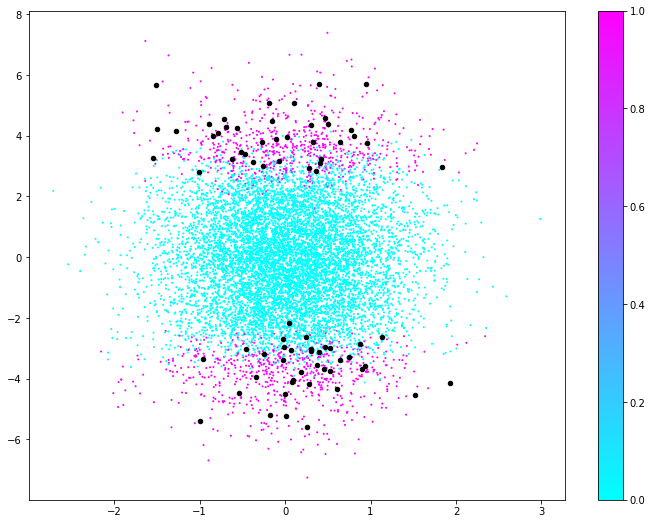
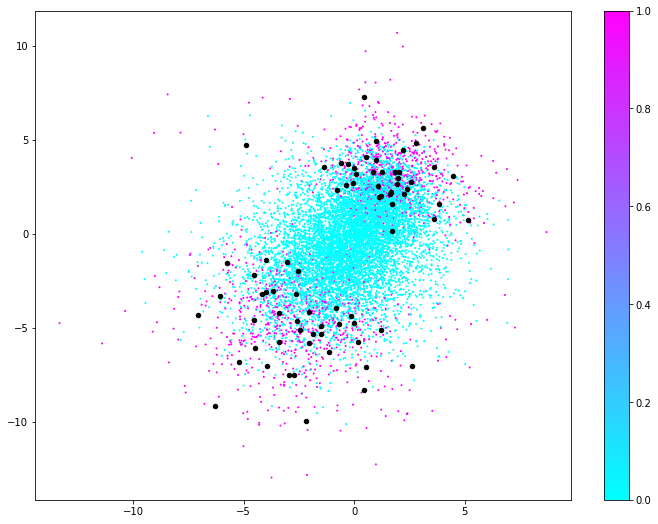
threshold and new IS procedure

diff --git a/src/VAE_class.py b/src/VAE_class.py
@@ -14,6 +14,7 @@ from tensorflow import keras
 from tensorflow.keras import layers
 import tensorflow_probability as tfp
 tfd = tfp.distributions
+import time
 
 #%% Sampling procedure
 
@@ -53,10 +54,11 @@ class VAE(keras.Model):
         self.input_dim = input_dim
         self.latent_dim = latent_dim
         self.K = K
-        self.prior = ot.Normal(latent_dim)
         self.encoder = create_encoder(encoder,input_dim,latent_dim)
         self.decoder = create_decoder(decoder,input_dim,latent_dim)
         self.pseudo_inputs_layer = vp_layer
+        self.prior = ot.Normal(latent_dim)
+        self.distrX = ot.Normal(input_dim)
         self.total_loss_tracker = keras.metrics.Mean(name="total_loss")
         self.reconstruction_loss_tracker = keras.metrics.Mean(name="reconstruction_loss")
         self.kl_loss_tracker = keras.metrics.Mean(name="kl_loss")
@@ -82,24 +84,7 @@ class VAE(keras.Model):
             d_k = tfp.distributions.MultivariateNormalDiag(loc=mu,scale_diag=tf.sqrt(sigma))
             components.append(d_k)
         return tfd.Mixture(cat = cat,components = components)
-        
     
-    def set_ot_prior(self):
-        pseudo_inputs = self.get_pseudo_inputs()
-
-        z_mean, z_log_var, z = self.encoder(pseudo_inputs)
-        z_mean = np.array(z_mean).astype("float64")
-        z_var = np.exp(np.array(z_log_var).astype("float64"))
-                        
-        distrs = []
-        for i in range(self.K):
-            d  = ot.Normal(ot.Point(z_mean[i]),ot.CovarianceMatrix(np.diag(z_var[i])))
-            distrs.append(d)
-        prior = ot.Mixture(distrs)
-        self.prior = prior
-    
-    def get_pseudo_inputs(self):
-        return self.pseudo_inputs_layer(tf.eye(self.K))
 
     def train_step(self, data):
         X,y = data
@@ -149,29 +134,75 @@ class VAE(keras.Model):
             "kl_loss": self.kl_loss_tracker.result()
         }
     
+    def get_pseudo_inputs(self):
+        return self.pseudo_inputs_layer(tf.eye(self.K))
+    
+    def set_ot_prior(self):
+        pseudo_inputs = self.get_pseudo_inputs()
+
+        z_mean, z_log_var, z = self.encoder(pseudo_inputs)
+        z_mean = np.array(z_mean).astype("float64")
+        z_var = np.exp(np.array(z_log_var).astype("float64"))
+                        
+        distrs = []
+        for i in range(self.K):
+            d  = ot.Normal(ot.Point(z_mean[i]),ot.CovarianceMatrix(np.diag(z_var[i])))
+            distrs.append(d)
+        prior = ot.Mixture(distrs)
+        self.prior = prior
+        
+    def set_ot_distrX(self,M):
+        Z = self.prior.getSample(M)
+        X_mean, X_log_var = self.decoder(tf.convert_to_tensor(Z))
+        X_mean = ot.Sample(np.array(X_mean).astype("float64"))
+        X_log_var = np.array(X_log_var).astype("float64")
+        X_std = ot.Sample(np.sqrt(np.exp(X_log_var)))
+        
+        distrs = []
+        for i in range(M):
+            d = ot.Normal(X_mean[i],X_std[i])
+            distrs.append(d)
+        distrX = ot.Mixture(distrs)
+        self.distrX = distrX
     
     def getSample(self,N,with_pdf=False):
-                
-        z_sample = self.prior.getSample(N)
-        X_mean, X_log_var = self.decoder(tf.convert_to_tensor(z_sample))
-        X_mean,X_log_var = ot.Sample(np.array(X_mean).astype("float64")),np.array(X_log_var).astype("float64")
-    
-        std_matrix = np.sqrt(np.exp(X_log_var))
-    
-        Normal_vector = ot.Normal(self.input_dim).getSample(N)
-        new_sample = ot.Sample(std_matrix*Normal_vector) + X_mean
-        
-        if with_pdf==True:
-            new_sample_np = np.array(new_sample)
-            g_X = np.zeros((N,1))
-            log_det = 0.5*np.sum(X_log_var,axis=1)
-            inv_det = 1/np.exp(log_det)
-            
-            for i in range(N):
-                point = (new_sample_np[i] - X_mean)/std_matrix
-                pdf = np.array(ot.Normal(self.input_dim).computePDF(point)).flatten()
-                g_X[i] = np.mean(inv_det*pdf)
 
-            return new_sample, ot.Sample(g_X)
+        #start_time = time.time()
+        new_sample = self.distrX.getSample(N)
+        #print("Get sample time: %s seconds " % (time.time() - start_time))
+        if with_pdf==True:
+            #start_time = time.time()
+            g_X = self.distrX.computePDF(new_sample)
+            #print("Get PDF time: %s seconds " % (time.time() - start_time))
+            return new_sample,g_X
         else:
             return new_sample
+
+            
+    # def getSample(self,N,with_pdf=False):
+    #     z_sample = self.prior.getSample(N)
+    #     X_mean, X_log_var = self.decoder(tf.convert_to_tensor(z_sample))
+    #     X_mean,X_log_var = ot.Sample(np.array(X_mean).astype("float64")),np.array(X_log_var).astype("float64")
+    
+    #     std_matrix = np.sqrt(np.exp(X_log_var))
+    
+    #     Normal_vector = ot.Normal(self.input_dim).getSample(N)
+    #     new_sample = ot.Sample(std_matrix*Normal_vector) + X_mean
+        
+    #     if with_pdf==True:
+    #         start_time = time.time()
+    #         new_sample_np = np.array(new_sample)
+    #         g_X = np.zeros((N,1))
+    #         log_det = 0.5*np.sum(X_log_var,axis=1)
+    #         inv_det = 1/np.exp(log_det)
+            
+    #         for i in range(N):
+    #             point = (new_sample_np[i] - X_mean)/std_matrix
+    #             pdf = np.array(ot.Normal(self.input_dim).computePDF(ot.Sample(point))).flatten()
+    #             g_X[i] = np.mean(inv_det*pdf)
+       
+    #         print("Get PDF time: %s seconds " % (time.time() - start_time))
+    #
+    #         return new_sample, ot.Sample(g_X)
+    #     else:
+    #         return new_sample

diff --git a/src/AE_class.py b/src/AE_class.py
@@ -7,7 +7,6 @@ Created on Thu Dec  8 14:08:10 2022
 
 #%% Modules
 
-import numpy as np
 import tensorflow as tf
 from tensorflow import keras
 from tensorflow.keras import layers
@@ -16,25 +15,28 @@ from tensorflow.keras import layers
     
 def create_encoder(input_dim,latent_dim):
     
+    threshold = 700
+    
     encoder_inputs = keras.Input(shape=(input_dim,))
     x = layers.Dense(32, activation="relu")(encoder_inputs)
     x = layers.Dense(16, activation="relu")(x)
     z = layers.Dense(latent_dim, activation="linear")(x)
     z_log_var = layers.Dense(latent_dim, activation="linear")(x)
+    z_log_var = tf.math.minimum(z_log_var, threshold)
     encoder = keras.Model(encoder_inputs, [z,z_log_var], name="encoder")
     return encoder
 
 def create_decoder(input_dim,latent_dim):
     
-    threshold = -100
-    a = 2*threshold/input_dim
+    threshold = -300
+    #a = 2*threshold/input_dim
     
     latent_inputs = keras.Input(shape=(latent_dim,))
     x = layers.Dense(16, activation="relu")(latent_inputs)
     x = layers.Dense(32, activation="relu")(x)
     x_output = layers.Dense(input_dim, activation="linear")(x)
     x_log_var = layers.Dense(input_dim, activation="linear")(x)
-    #x_log_var = tf.math.maximum(x_log_var, a)
+    x_log_var = tf.math.maximum(x_log_var, threshold)
     decoder = keras.Model(latent_inputs, [x_output,x_log_var], name="decoder")
     return decoder
 

diff --git a/numerical_tests/truncated_gaussian.py b/numerical_tests/truncated_gaussian.py
@@ -18,7 +18,7 @@ from VAE_IS_VP import fitted_vae
 
 #%% Setting
 
-input_dim = 10
+input_dim = 100
 latent_dim = 2
 K = 75
 N = 10**4
@@ -36,14 +36,12 @@ vae,vae_encoder,vae_decoder = fitted_vae(X,y,latent_dim,K,epochs=100)
 fig,ax = plt.subplots(figsize=(12,9))
 cm = plt.cm.get_cmap('cool')
 
-dim = 1
-
 pseudo_inputs = vae.get_pseudo_inputs()
 _, _, z = vae_encoder(pseudo_inputs)
 Z_mean,Z_log_var,Z = vae_encoder(X)
-im = ax.scatter(np.array(Z)[:,0],np.array(Z)[:,dim],c=y,s=1,cmap=cm)
+im = ax.scatter(np.array(Z)[:,0],np.array(Z)[:,1],c=y,s=1,cmap=cm)
 fig.colorbar(im, ax=ax)
-ax.scatter(np.array(z)[:,0],np.array(z)[:,dim],color='black',s=20)
+ax.scatter(np.array(z)[:,0],np.array(z)[:,1],color='black',s=20)
 
 fig.savefig(f"Figures/truncated_gaussian_latent_space_{input_dim}_{latent_dim}_{K}.png",bbox_inches='tight')
 
@@ -57,7 +55,8 @@ xx = np.linspace(-7,7,101).reshape((-1,1))
 yy = failure_distr.computePDF(xx)
 yyze = ot.Normal(1).computePDF(xx)
 
-new_X = vae.getSample(10**4,with_pdf=False)
+#new_X,g_X = vae.getSample(10**4,with_pdf=True)
+new_X = vae.getSample(10**5,with_pdf=False)
 
 fig,ax = plt.subplots(2,5,figsize=(15,6))
 for i in range(2):

diff --git a/numerical_tests/four_branches.py b/numerical_tests/four_branches.py
@@ -102,13 +102,13 @@ input_dim = 100
 ot_function = ot.PythonFunction(input_dim,1,four_branchs)
 input_distr = ot.Normal(input_dim)
 
-n_rep = 10**2
+n_rep = 10**1
 N = 10**4
 p = 0.2
 
 proba_ceis_vae = np.zeros(n_rep)
-proba_ceis_sg = np.zeros(n_rep)
-proba_ceis_gm = np.zeros(n_rep)
+proba_ceis_vM = np.zeros(n_rep)
+proba_subsamp = np.zeros(n_rep)
 N_tots = np.zeros((n_rep,3))
 
 for n in tqdm(range(n_rep)):
@@ -116,13 +116,13 @@ for n in tqdm(range(n_rep)):
     proba_ceis_vae[n] = proba_vae
     N_tots[n,0] = n_tot
     
-    proba_sg,_,_,n_tot = CEIS_SG(N,p,ot_function,t,input_distr)
-    proba_ceis_sg[n] = proba_sg
-    N_tots[n,1] = n_tot
+    # proba_vM,_,_,n_tot = CEIS_SG(N,p,ot_function,t,input_distr)
+    # proba_ceis_vM[n] = proba_vM
+    # N_tots[n,1] = n_tot
     
-    proba_gm,_,_,n_tot = CEIS_GM(N,p,ot_function,t,input_distr,4)
-    proba_ceis_gm[n] = proba_gm
-    N_tots[n,2] = n_tot
+    # proba_ss,_,_,n_tot = CEIS_GM(N,p,ot_function,t,input_distr,4)
+    # proba_subsamp[n] = proba_ss
+    # N_tots[n,2] = n_tot
     
     
 #np.savez(f"Data/four_branches_failprob_estimations_{input_dim}.npz")

diff --git a/src/VAE_IS_VP.py b/src/VAE_IS_VP.py
@@ -64,6 +64,7 @@ def fitted_vae(X,y,latent_dim,K,epochs=100,batch_size=100):
     vae = VAE(encoder, decoder, vp_layer, input_dim, latent_dim, K)
     vae.compile(optimizer=keras.optimizers.Adam())
     vae.fit(tf.convert_to_tensor(X),tf.convert_to_tensor(y), epochs=epochs, batch_size=batch_size,verbose=0)
-    vae.set_ot_prior()    
+    vae.set_ot_prior()  
+    vae.set_ot_distrX(M=10**3)
     vae_encoder,vae_decoder = vae.get_encoder_decoder()
     return vae,vae_encoder,vae_decoder
